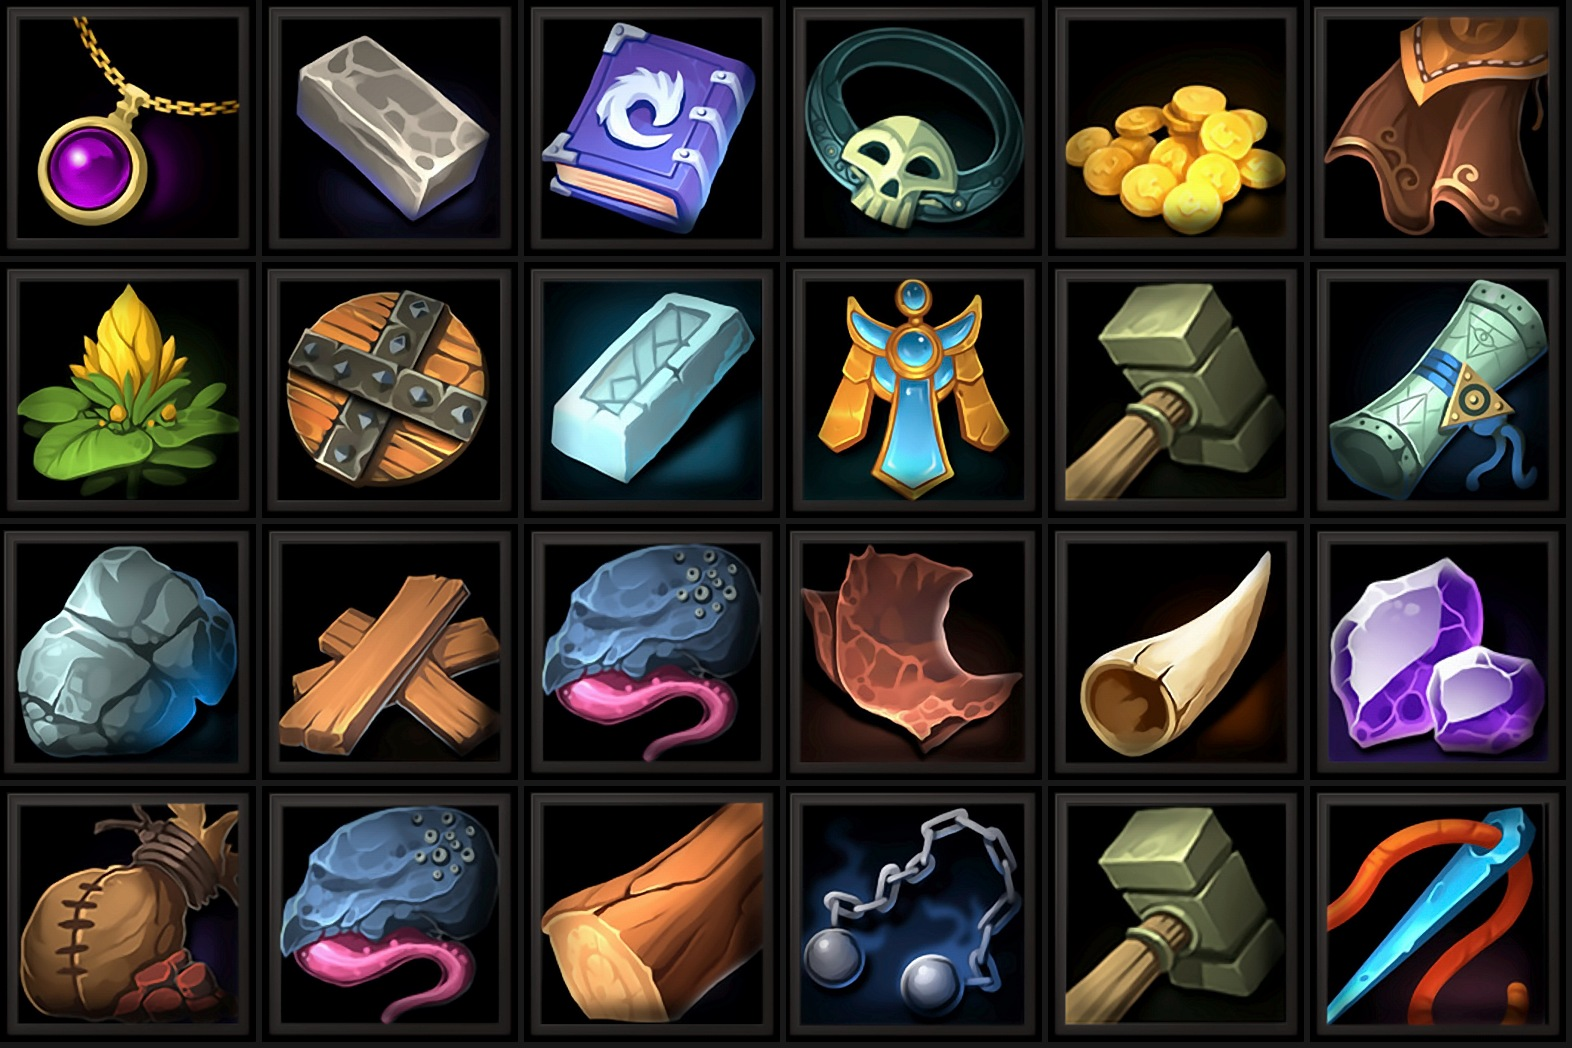
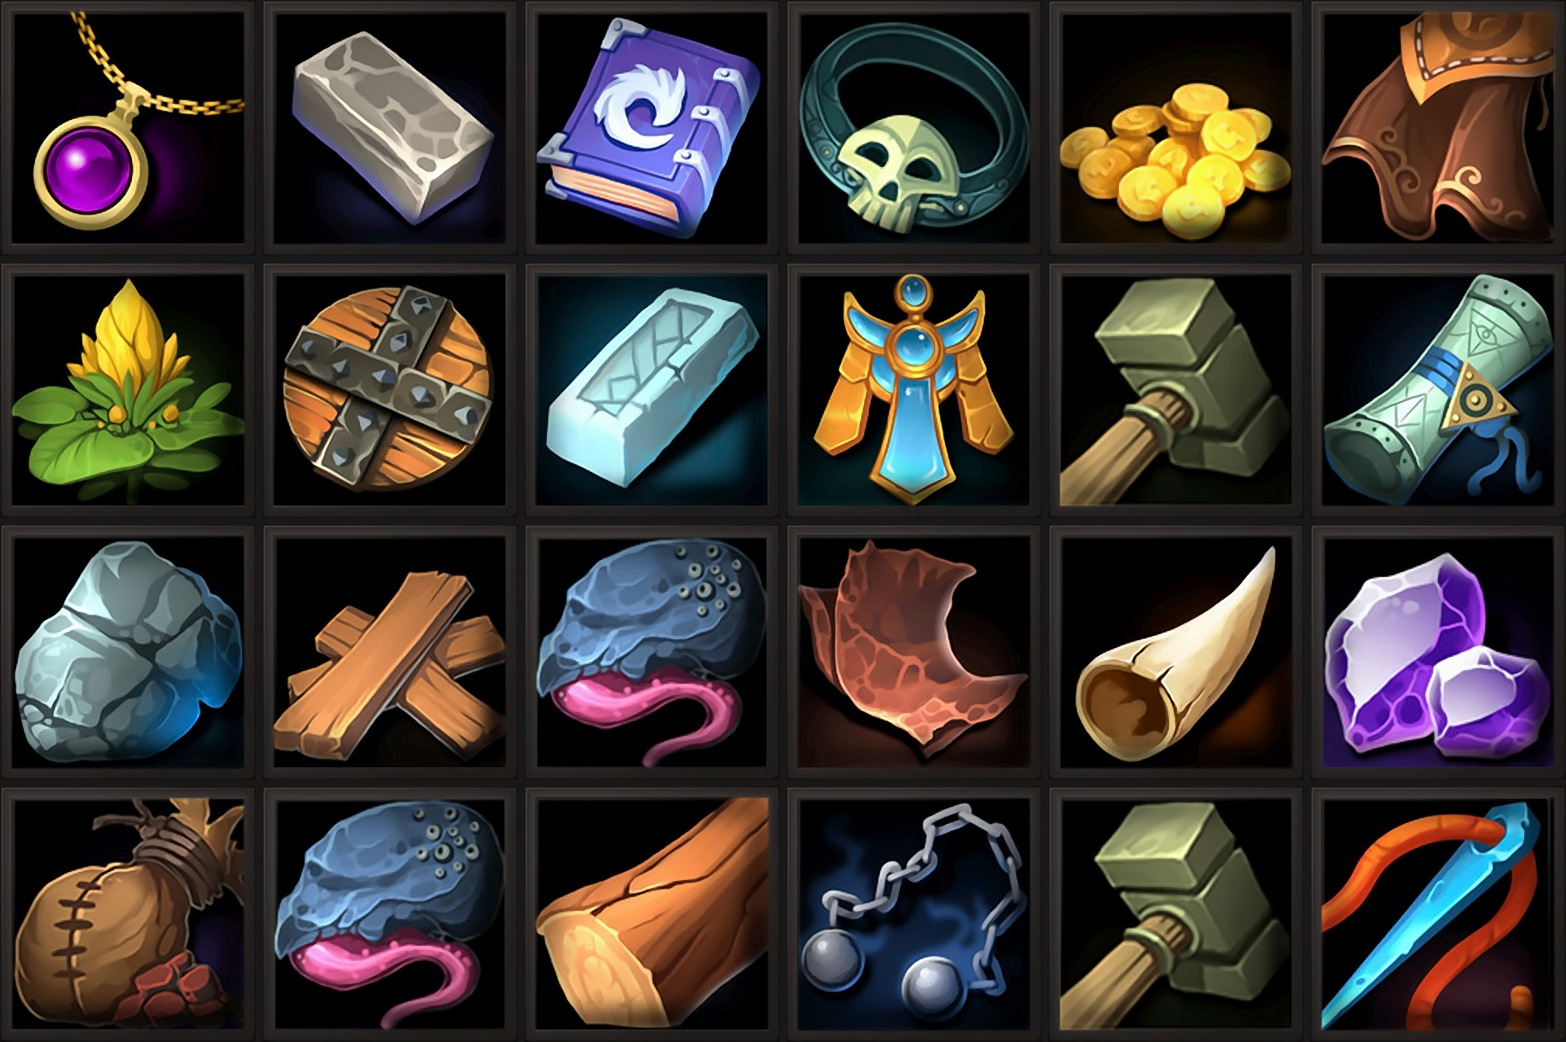
fix(batch): рамка заподлицо с краем — убран тёмный зазор вокруг борта
pad считался как 2 + rim + 3 (запас под падающую тень), поэтому вокруг
борта в кадр попадала тёмная полоса фона листа: первые 6 столбцов
иконки были ровно 0. Теперь pad = ceil(rim): внешняя кромка борта
совпадает с краем кадра.

diff --git a/tools/batch_all.py b/tools/batch_all.py
@@ -93,7 +93,9 @@ def process_sheet(path: str, outroot: str, nslots: int | None,
         img = img.copy()
         for box in boxes:
             S.style_box(img, box, fp)
-        pad = int(2 + fp["rim"] + 3)          # + запас под падающую тень
+        # ровно до внешней кромки борта: рамка упирается в край кадра,
+        # иначе вокруг неё остаётся тёмная полоса фона листа
+        pad = int(np.ceil(fp["rim"]))
 
     folder = os.path.relpath(os.path.dirname(path), ROOT)
     stem = os.path.splitext(os.path.basename(path))[0].replace(" ", "_")
